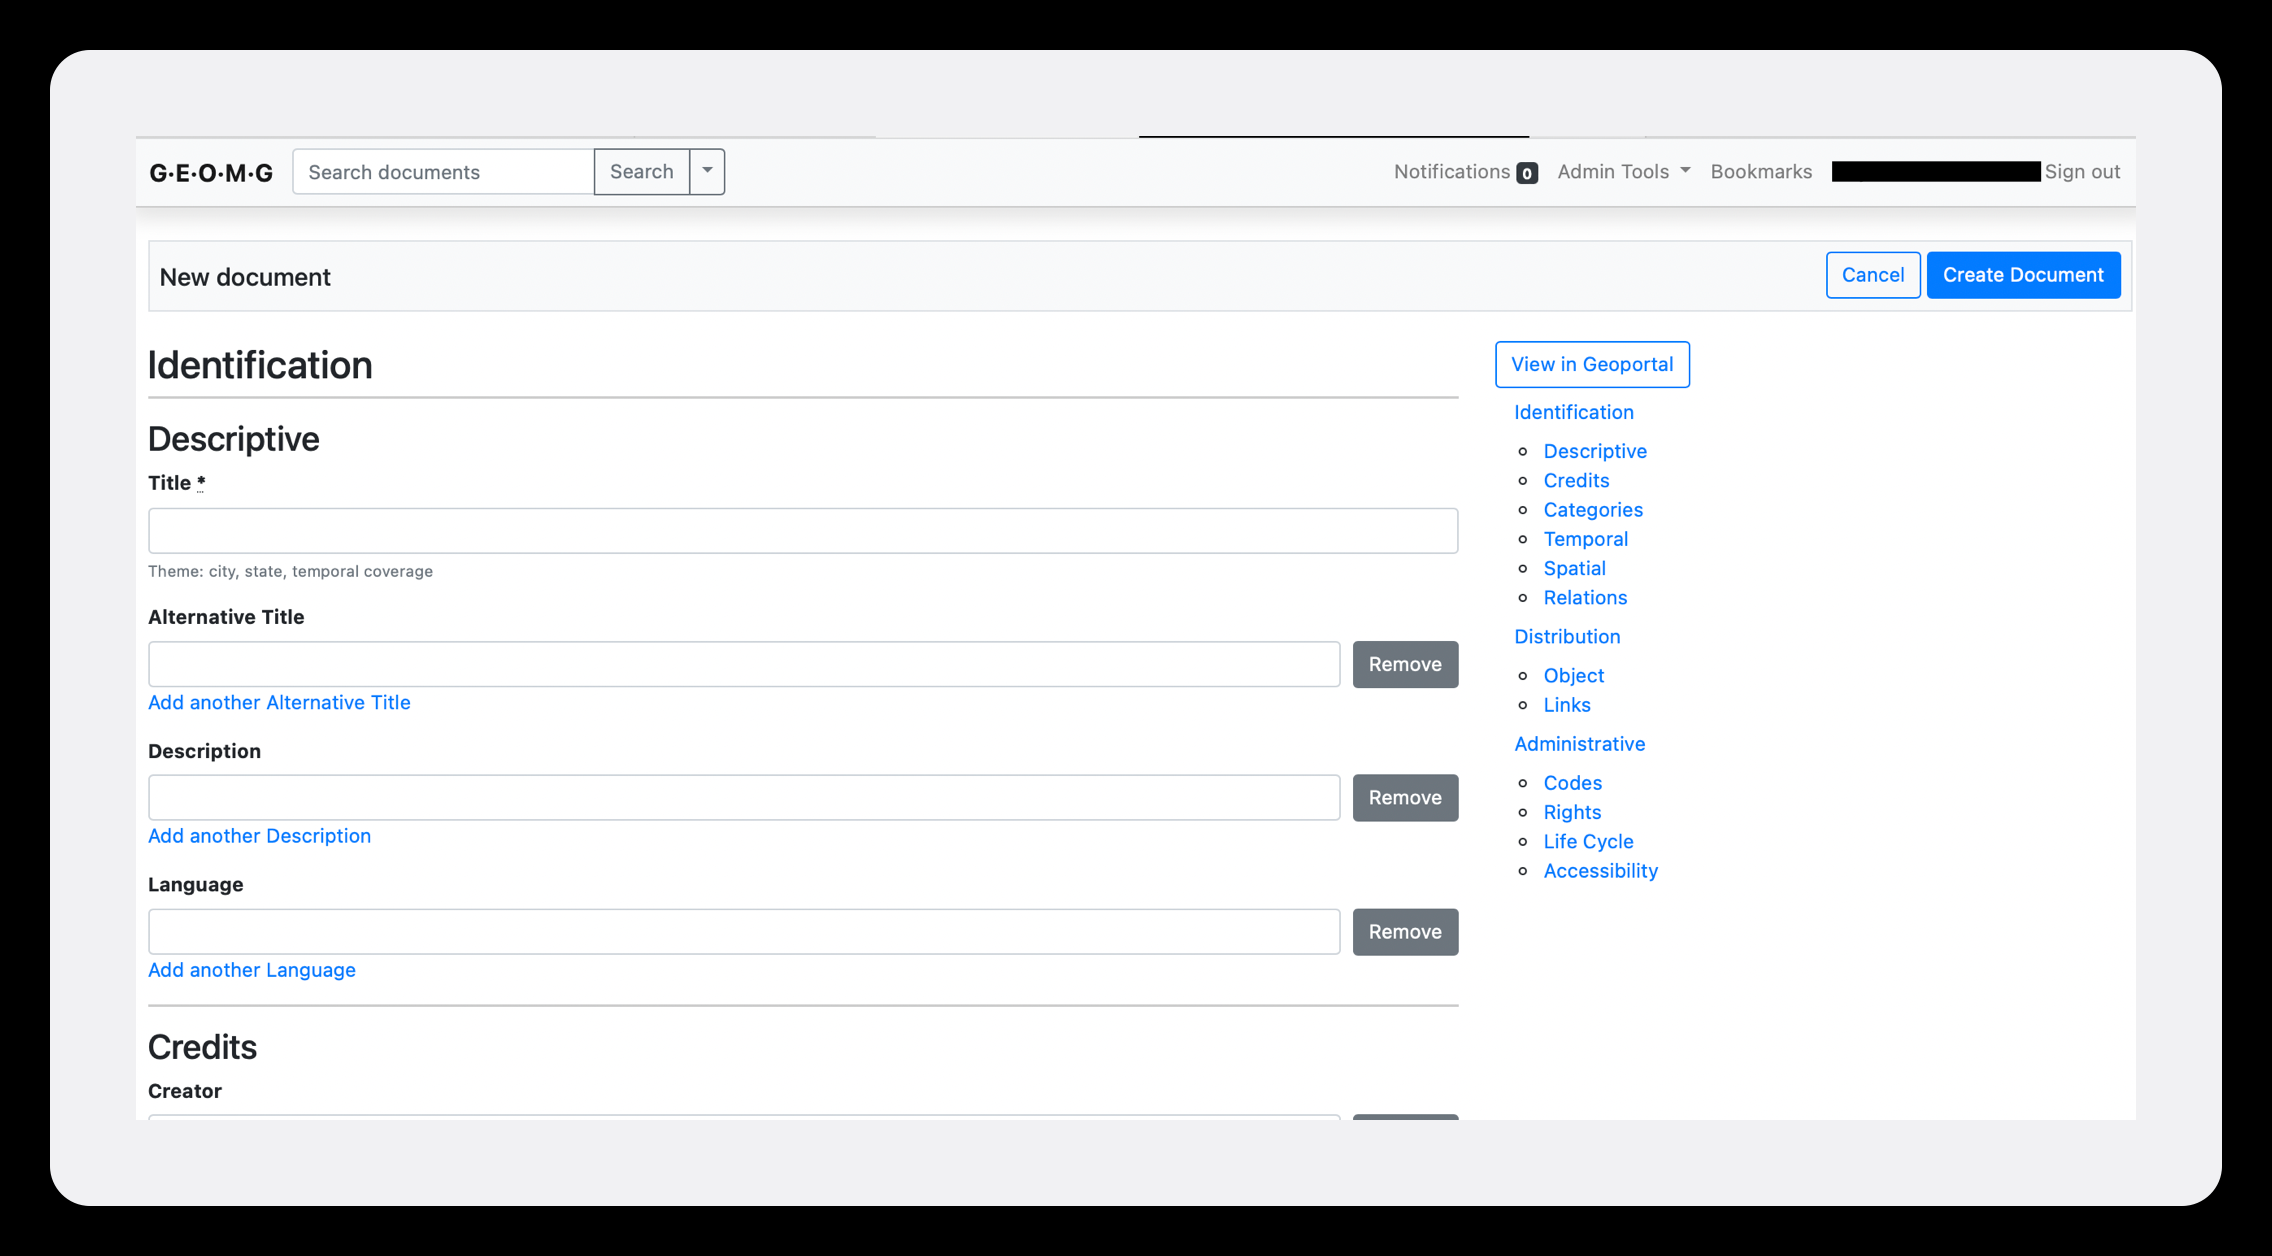
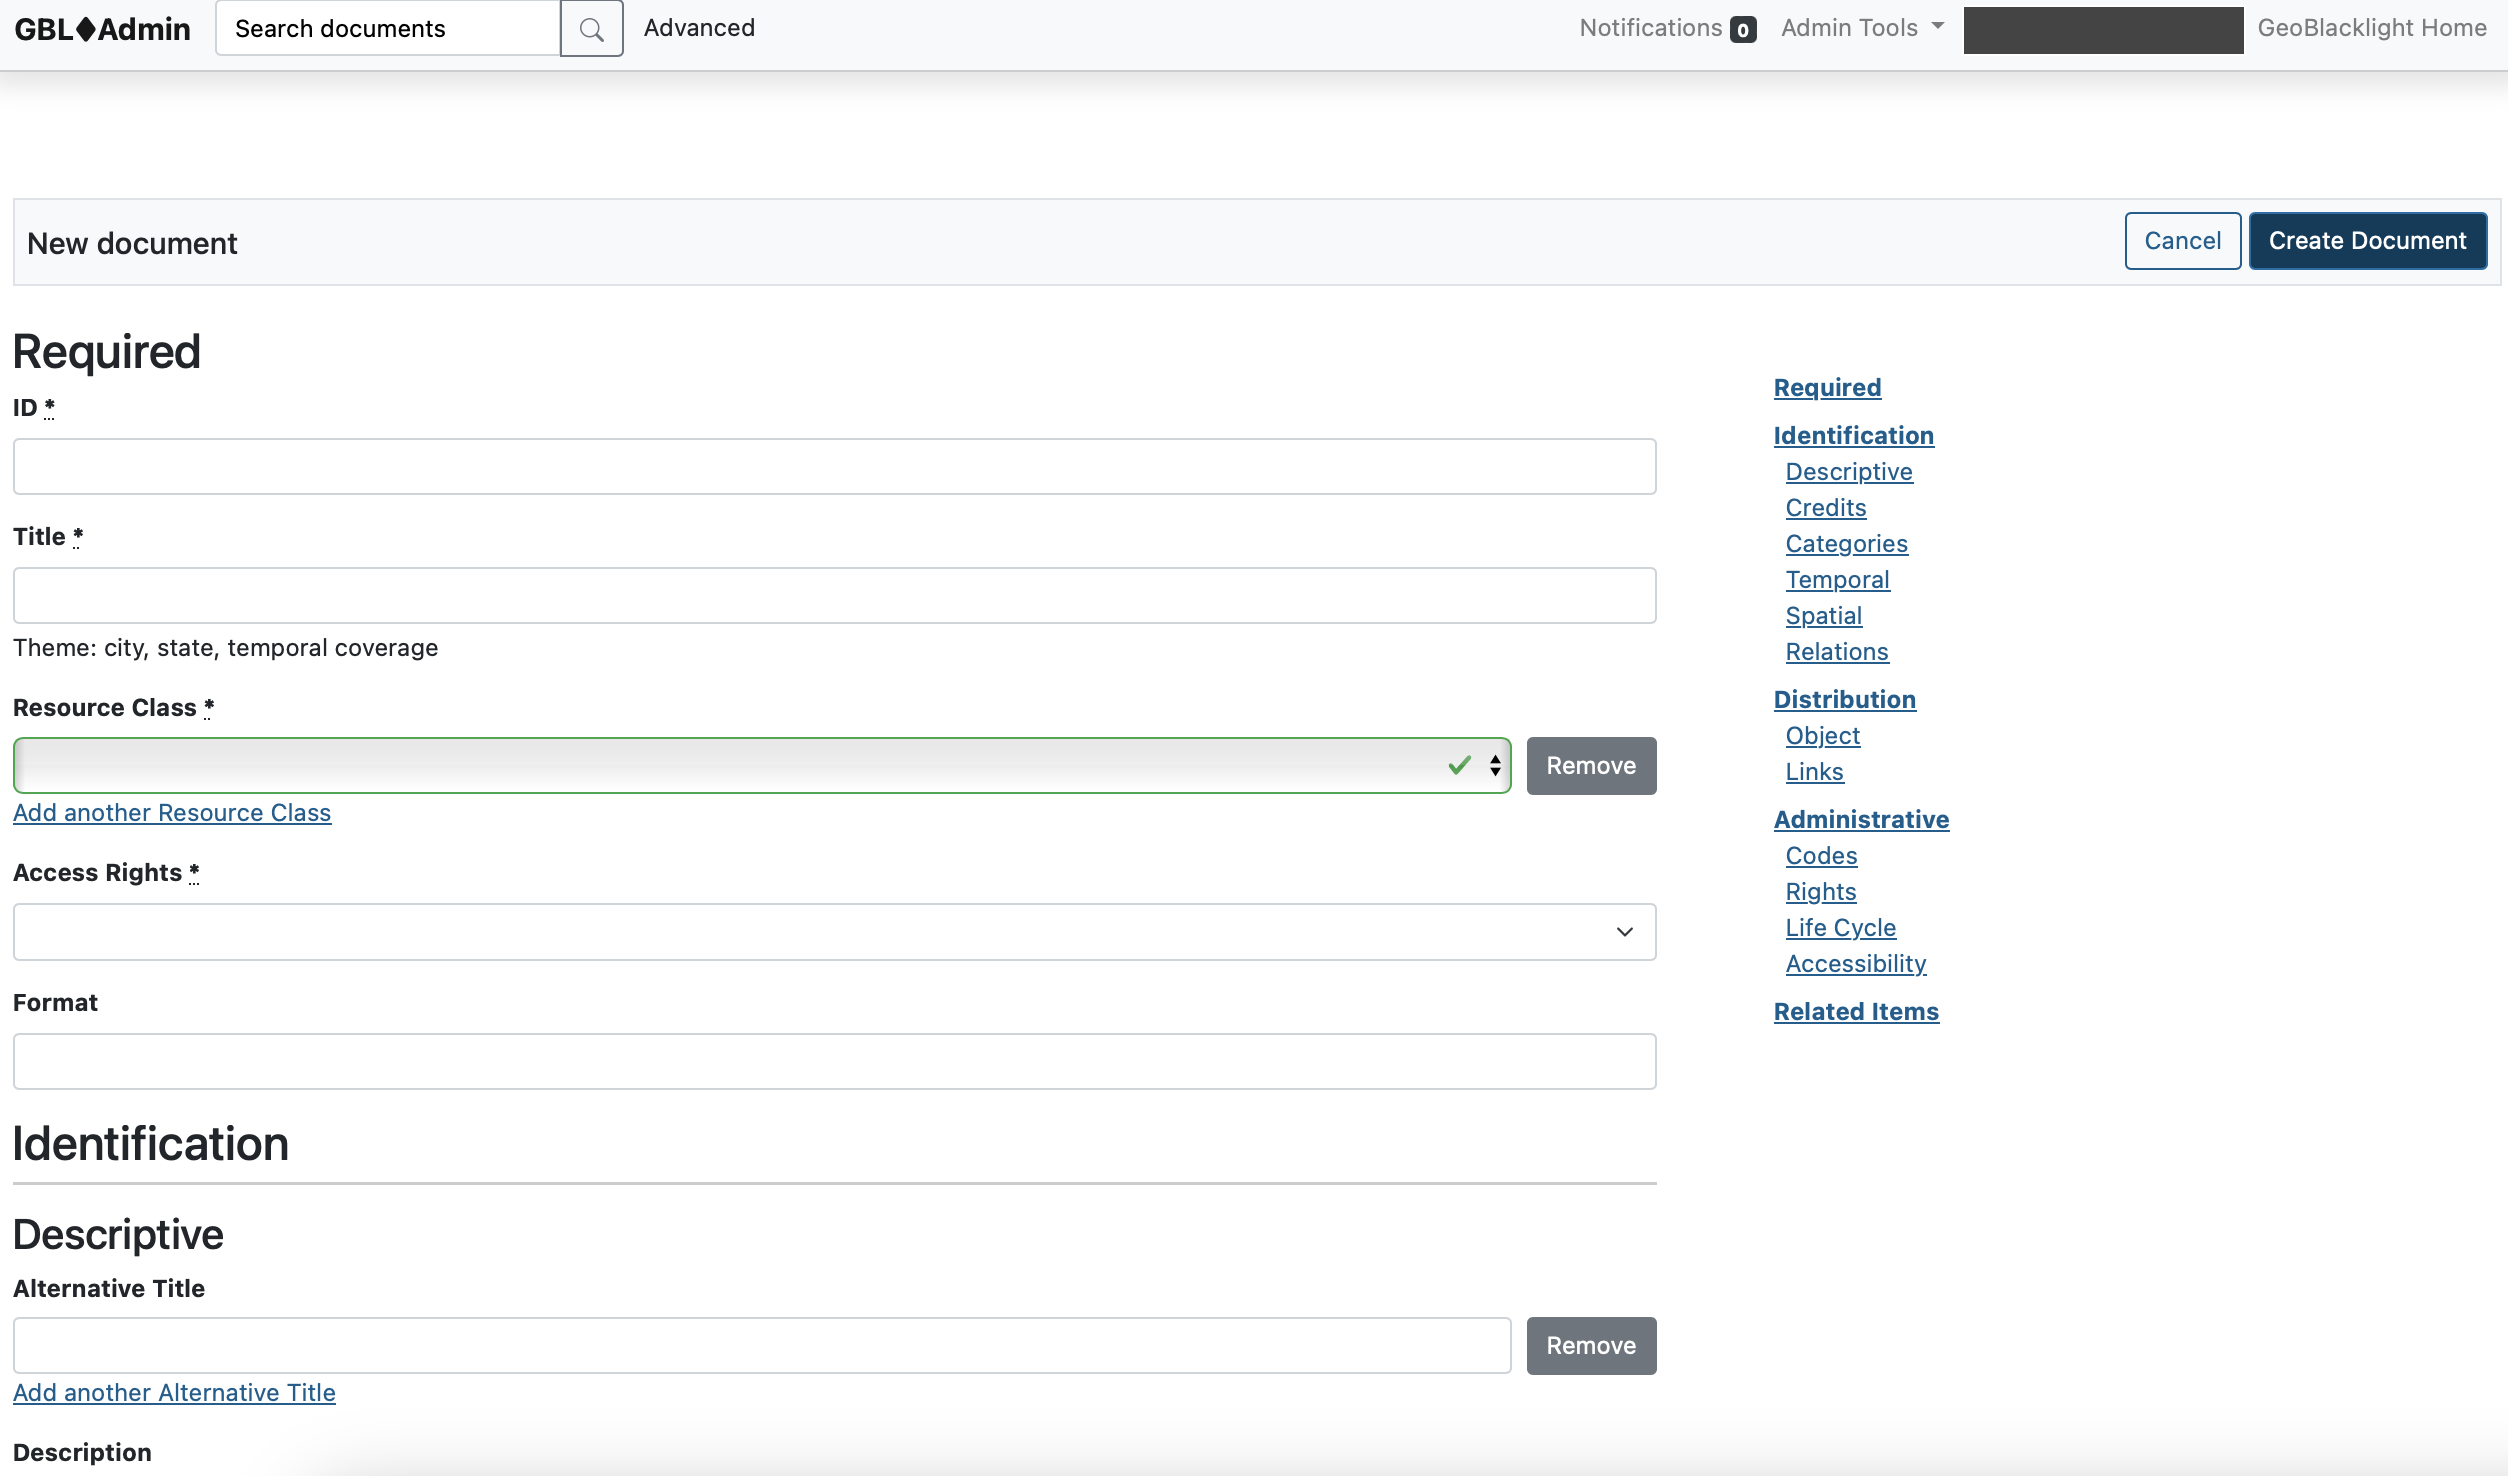
Further additions

diff --git a/docs/import.md b/docs/import.md
@@ -2,11 +2,15 @@
 
 Users can use this page to batch create or edit records with a CSV file.
 
+## Primary Table
+
+The Primary table holds the metadata for each item.
+
 1. Create a CSV using the Label for each OGM Aardvark metadata field
 
-!!! warning "to do"
+!!! tip
 
-	Need to create a doc showing all the fields and References labels. [Use the B1G Template](https://z.umn.edu/b1g-template)
+	Copy the [B1G Template](https://z.umn.edu/b1g-template) for an example of an importable CSV.
 
 2. Upload the spreadsheet to GeoBlacklight Admin
 
@@ -24,7 +28,7 @@ Users can use this page to batch create or edit records with a CSV file.
 
 3. Spot check records for errors and consistency
 
-	- The newly uploaded records will be listed as **Draft** under the Publication State on the main dashboard
+	- The newly uploaded records will be listed as **Draft** under the Publication State on the main Documents view.
 	- Select 'Draft' under Publication State and select an item. This will open it in editing view.
 	- Click the button **View in Geoportal**
 	- Inspect the record and test the links.	- Repeat this process for about 3 records.
@@ -32,7 +36,7 @@ Users can use this page to batch create or edit records with a CSV file.
 
 4. Convert records from 'Draft' to 'Published'
 
-	- If the records are satisfactory, return to the Dashboard view and select all Draft items in the upload. 
+	- If the records are satisfactory, return to the Documents view and select all Draft items in the upload. 
 	- Select All and then select the text "Select all results that match this search"
 	- Click the State button. From the dropdown, select Published.
 	- On the _Bulk Action_ page, click the button **Run Bulk Action**
@@ -40,15 +44,21 @@ Users can use this page to batch create or edit records with a CSV file.
 
 ## Secondary tables
 
-There are two metadata fields, `Multiple Download Links` and `Institutional Access Links` that use secondary tables. This occurs when the field needs parts to the value: a label + a link. 
+Secondary tables are for selected external links and assets/file attachments.
+
+### External Links
+
+`Multiple Download Links` and `Institutional Access Links` use secondary tables.
 
 * When using the Form view, these values can be entered directly.
-* For CSV uploads, these values use a separate sheet than for the main import template.
-* Multiple Download Links: 
+* For CSV uploads, these values use a different template than for the Primary table.
+
+* **Multiple Download Links**: 
 	- on the Form view, scroll down to the Multiple Download Links inside the editor
 	- to enter manually, click the New Download URL button
 	- to upload multiple links, click the Import CSV button
-* Institutional Access Links
+
+* **Institutional Access Links**:
 	- on the Form view, click the text "Institutional Access Links" on the bottom of the right hand navigation OR go to Admin Tools - Access Links
 	- to enter manually, click the New Access URL button
 	- to upload multiple links, click the Import CSV button
@@ -73,3 +83,8 @@ There are two metadata fields, `Multiple Download Links` and `Institutional Acce
         ```
 
 
+### Assets/File Attachments
+
+!!! warning "in development"
+
+	This feature is currently in development

diff --git a/docs/views.md b/docs/views.md
@@ -1,0 +1,32 @@
+# Views
+
+There are two main document views: Documents and Form View.
+
+## Documents
+
+The Documents shows a list of all records in the index. These can be selected or filtered. The search functionality mimics the GeoBlacklight interface with a list of facets on the left to filter records. 
+
+It also features:
+
+* Date Range filter: to select items by Date Created (when they were first added).
+* Imports: Shortcut to filter to specific CSV metadata imports.
+
+![](images/documents.png)
+
+
+----------
+## Form view
+
+This page provides all of the editable fields for an individual record. Users can create new records or edit existing records manually with the Form view.
+
+to access the Form view, click on a record in the Documents list or click the button "New Document".
+
+![](images/formView.png)
+
+!!! tip
+
+	Click on the button "View Geoportal" to open a new tab with the record live in GeoBlacklight. Note: the record is still viewable live via this button, even if it is a Draft or Unpublished.
+
+------------
+
+

diff --git a/docs/toolbar.md b/docs/toolbar.md
@@ -1,0 +1,31 @@
+# Toolbar
+
+The top toolbar is available on all pages. It contains the following links:
+
+## GBL♦Admin
+Link to the Documents view
+
+## Search Documents
+
+A box for keyword searching
+
+## Advanced
+
+Links to the Advanced Search page
+
+## Notifications
+
+The Notificiations tab displays generated metadata download files. When a user requests a set of files for export, GeoBlacklight Admin will dynamically generate the download. Once the files are ready, the Notifications tab will display a red visual indicator.
+
+
+## Admin Tools
+
+The Admin Tools is a dropdown menu item that contains links to the various actions. See the [Admin Tools page](admin-tools.md) for descriptions.
+
+## User Name
+
+This lists the logged-in user name with dropdown options for bookmarks, editing your profile, and logging out.
+
+## GeoBlacklight Home
+
+Opens the homepage of the integrated GeoBlacklight instance.

diff --git a/docs/admin-tools.md b/docs/admin-tools.md
@@ -6,7 +6,7 @@ The Admin Tools menu item is a dropdown listing various functions. These functio
 
 ### Documents
 
-This link shows all the documents in the Dashboard. (It is a duplicate of the default homepage.)
+This link shows all the documents. (It is a duplicate link of the default home landing page.)
 
 ### Imports
 
@@ -20,7 +20,7 @@ This link shows a list of batch edits a user has generated, such as setting the 
 
 ### Assets
 
-This link directs to a dashboard displaying uploaded objects. Click on the "Upload Assets" button to manually upload a dataset, thumbnail, or supplemental metadata file.
+This link directs to a page displaying uploaded objects. Click on the "Upload Assets" button to manually upload a dataset, thumbnail, or supplemental metadata file.
 
 ### Access Links
 

diff --git a/docs/create.md b/docs/create.md
@@ -1,8 +1,8 @@
-# Create a record
+# Create a single record
 
 Users can manually create records using the form view. 
 
-1. Start on the main dashboard
+1. Start on the main Documents page
 2. click the button labeled **+New Document**
 3. Manually type in values. Some fields are required and need to be entered before the record can be saved including:
 	* Title
